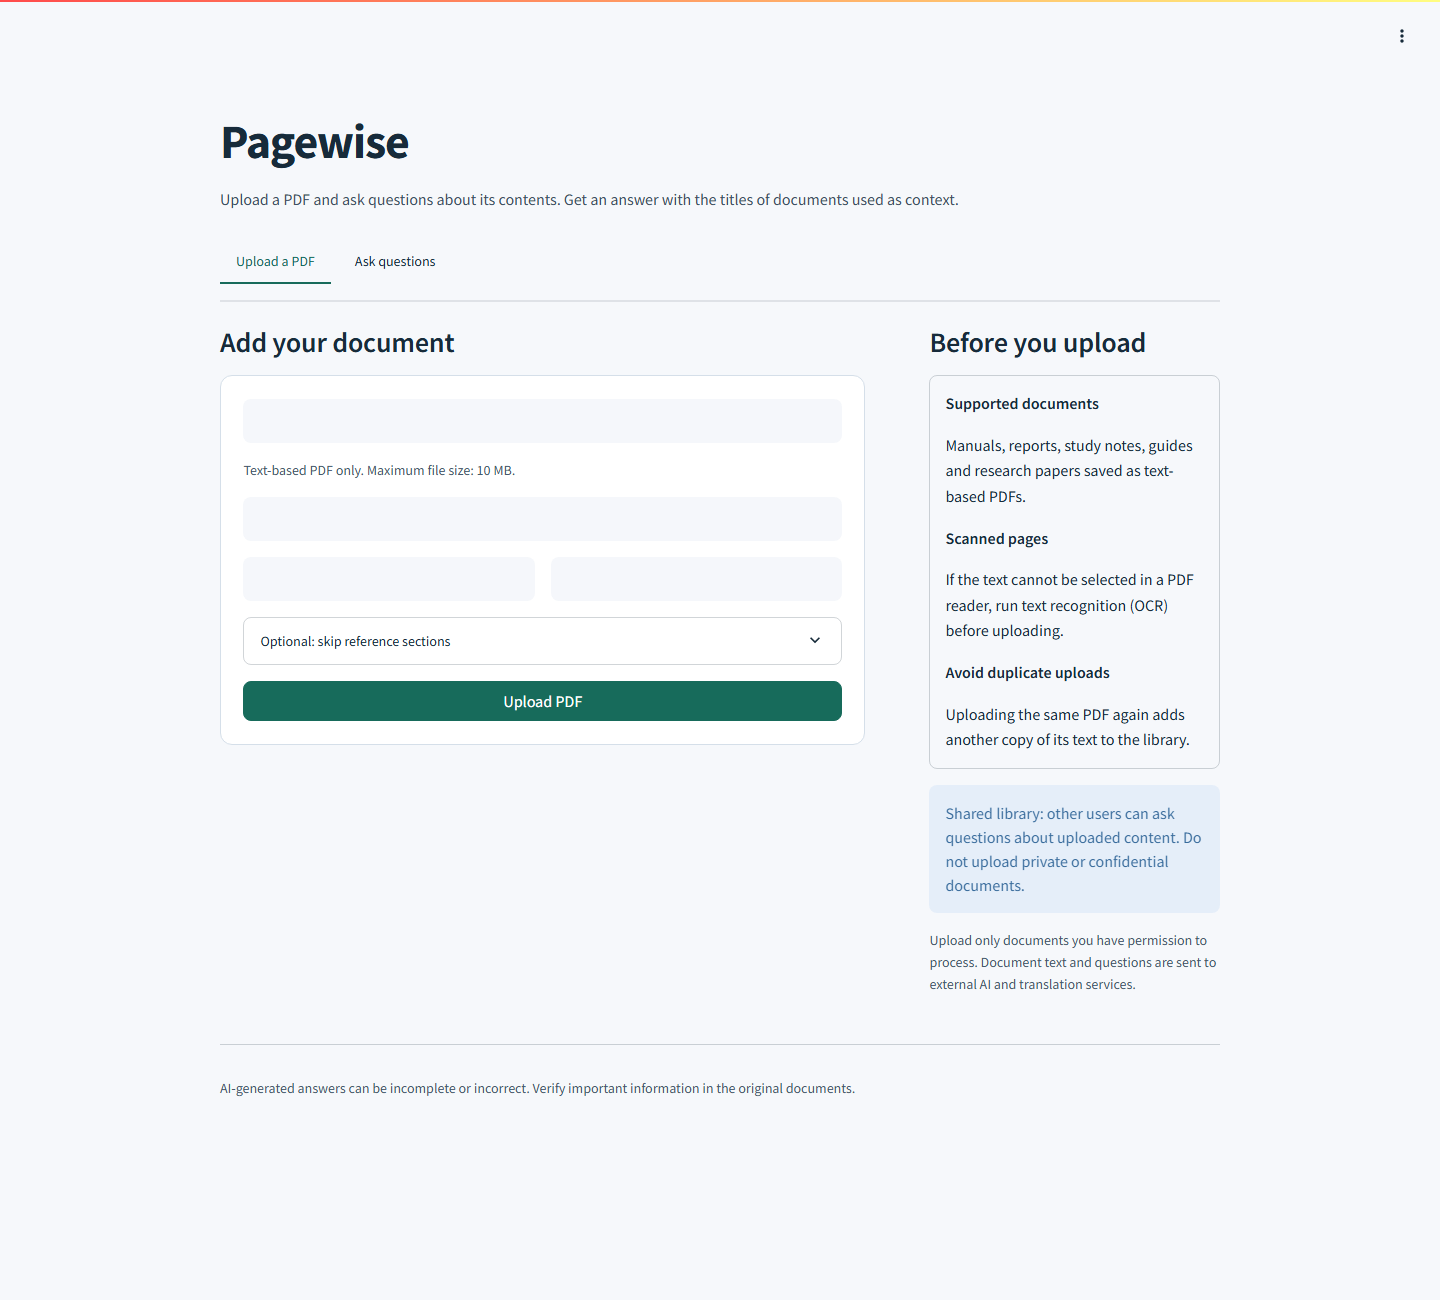
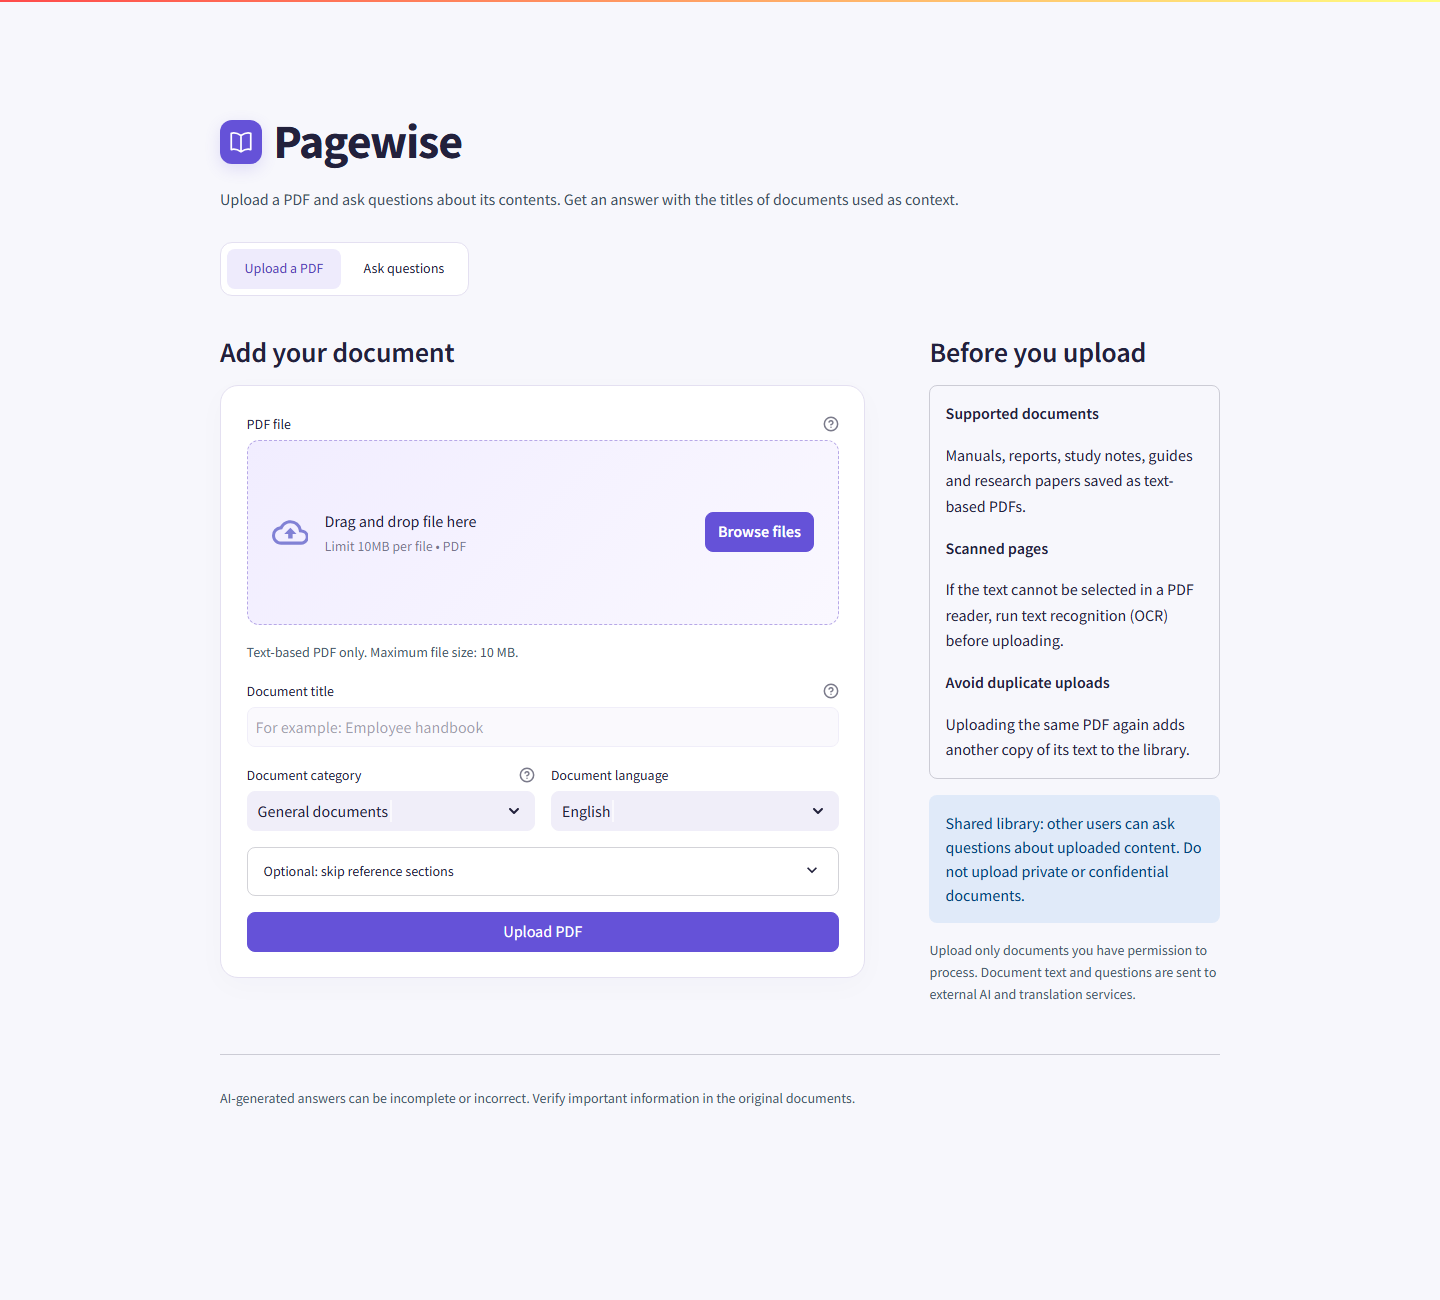
Record the verified Pagewise address and public screenshots

diff --git a/docs/VALIDATION.md b/docs/VALIDATION.md
@@ -148,3 +148,15 @@ The replacement frontend at https://pagewise-3pqx.onrender.com passed public
 phone/tablet/desktop checks. A visual refresh uses a larger file drop zone,
 purple theme and selected navigation pills while retaining the existing forms.
 The full regression suite remains 33 passing tests.
+
+The clarity update `d060d7f` passed GitHub CI and public phone/tablet/desktop
+checks for upload-first navigation, question validation, browser title and page
+overflow. The frontend health endpoint returned HTTP 200. Public upload and
+question screenshots were refreshed. This frontend-only release does not
+revalidate external provider availability or full accessibility conformance.
+
+Release `93d6921` is live at https://pagewise-3pqx.onrender.com. The public
+phone/tablet/desktop checks confirmed the purple brand mark, upload-first
+navigation, question validation and no page-width overflow. Frontend health
+returned HTTP 200 and GitHub CI passed. The old frontend is retained as a
+rollback option; the new frontend uses the same backend and private settings.

diff --git a/docs/DEPLOYMENT.md b/docs/DEPLOYMENT.md
@@ -5,7 +5,7 @@
 Three Render Docker web services were deployed on 8 November 2026 in Singapore,
 all with `plan: free`, using the Render API. Existing unrelated services were
 preserved. The agent runs `2873bfd38f98646141ec6f6ae65f5e21cad142e6`. The frontend
-runs interface update `d060d7f45bbbb50e08ec0a2b2c5b54c996804e48`. The unchanged translator runs
+runs interface update `93d6921b1742babc764af9092d3039d9ff081c62`. The unchanged translator runs
 `0e62affe945def11068fce93a97093595b7b75d3`.
 
 | Component | Public endpoint |
